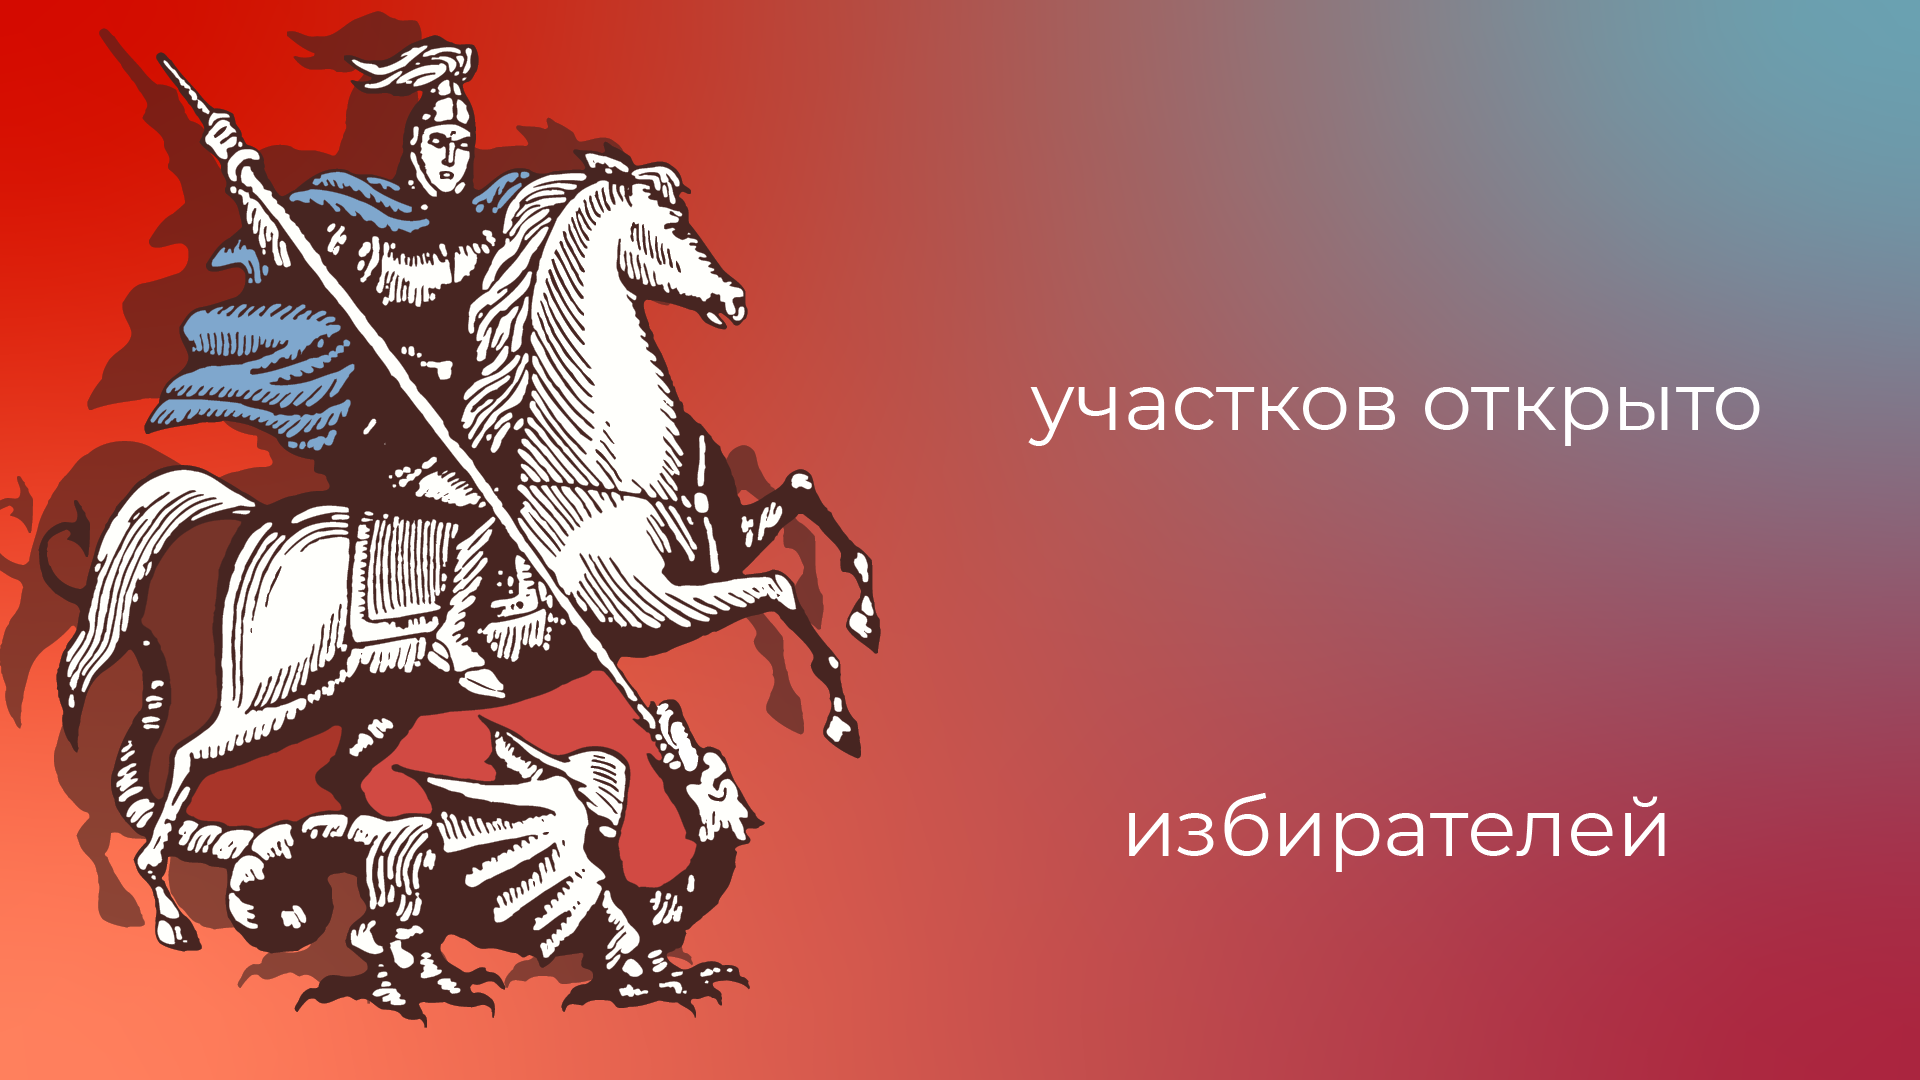
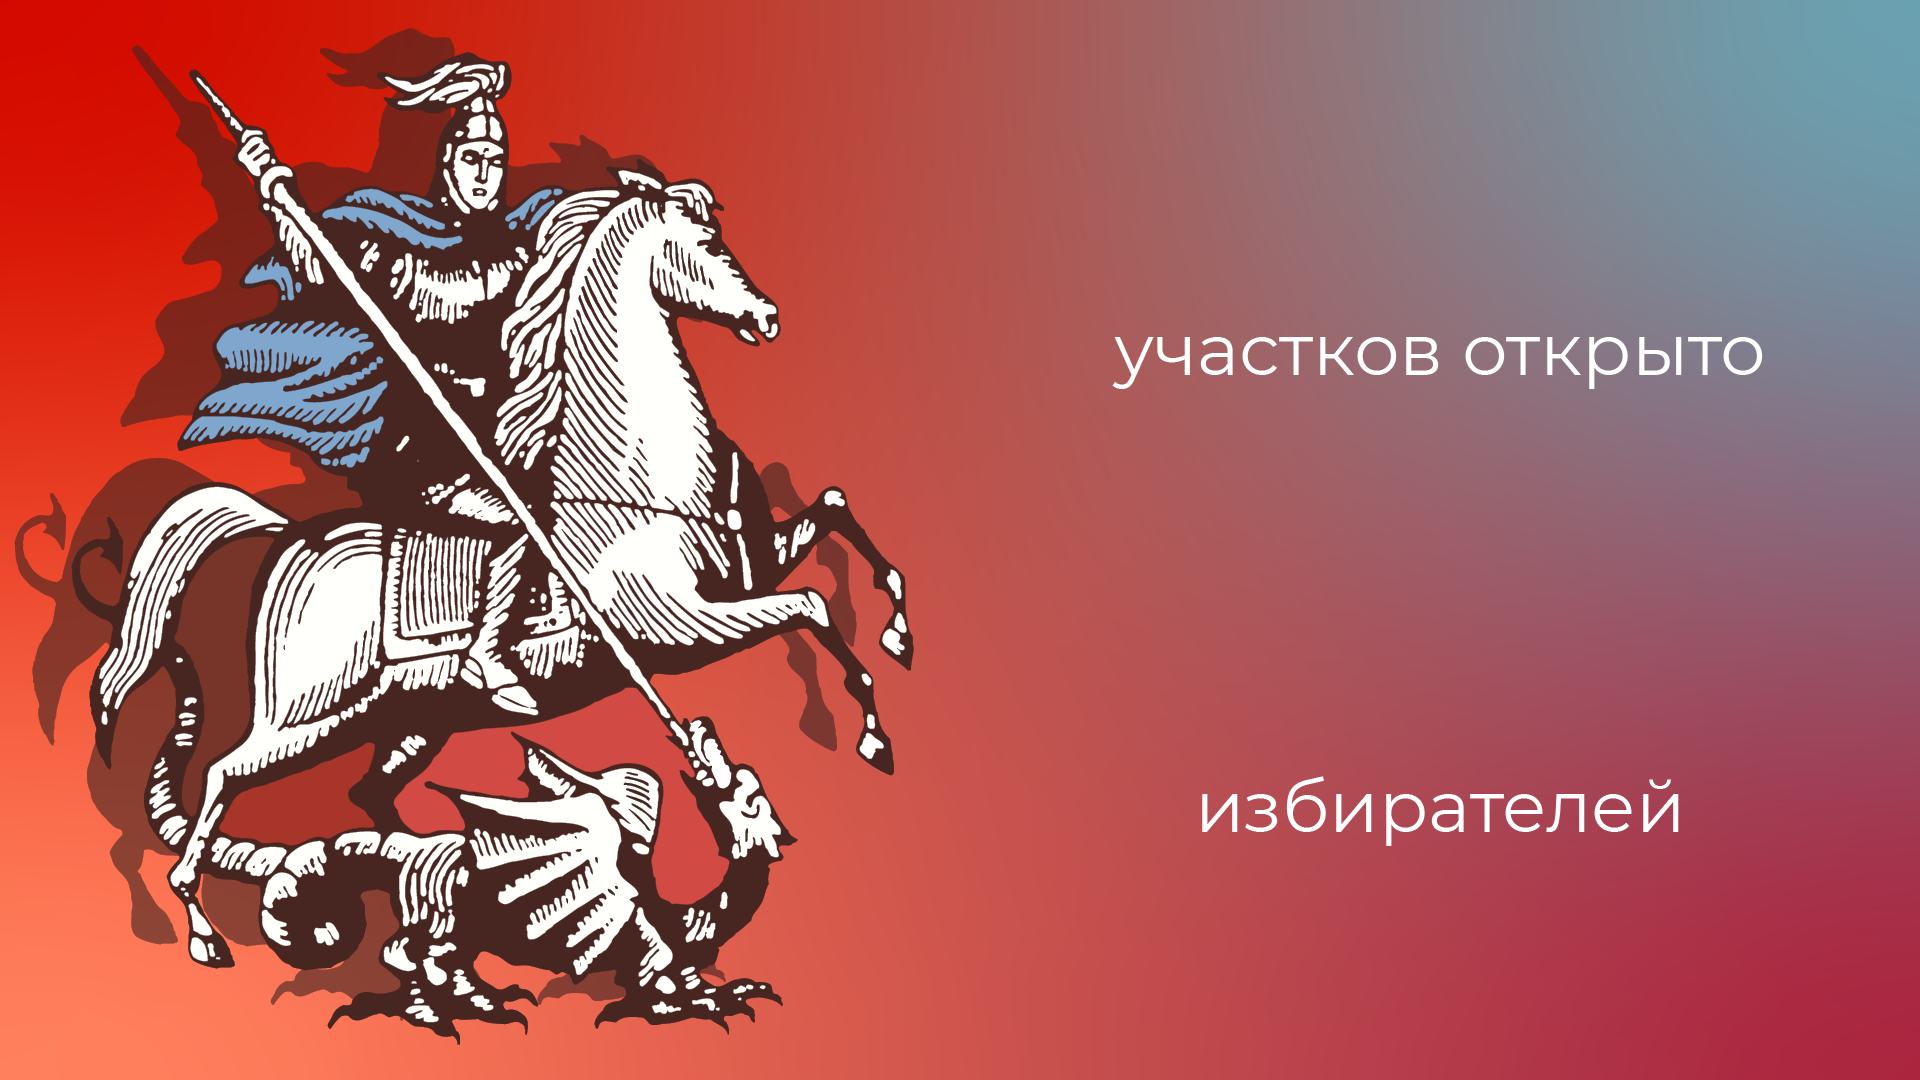
displays 0 1

Changed region(s): [[0.0, 0.0, 0.5, 0.9778], [0.5312, 0.3056, 0.9375, 0.3972], [0.5625, 0.7333, 0.875, 0.7944]]

diff --git a/frontend/src/components/journalistScreens/0_screen.vue b/frontend/src/components/journalistScreens/0_screen.vue
@@ -1,25 +1,6 @@
 <template>
-  <div>
-      <img :src="`${require('../../assets/logo_shadow.png')}`"
-             :style="{
-          'height': '100vh'
-        }"
-      >
-      <span :style="{
-            'width': '25%',
-            'position': 'fixed',
-            'color': '#FFFFFF',
-            'font-size': '146px',
-            'font-weight': 'bold',
-            'top': '25%',
-            'right': '15%'
-          }"
-        >
-        Выборы<br/>Мэра<br/>Москвы
-      </span>
-  </div>
-
-
+  <div class ="block">
+    </div>
 
 </template>
 
@@ -38,5 +19,13 @@ export default {
 </script>
 
 <style scoped>
+.block {
+
+    height: 100vh;
+    background-image:url("../../assets/journalistScreens/0.png");
+    display: flex;
+    align-items: center;
+    justify-content: center;
+}
 
 </style>

diff --git a/frontend/src/components/journalistScreens/1_opened.vue b/frontend/src/components/journalistScreens/1_opened.vue
@@ -6,12 +6,12 @@
 
         </div>
         <div class="col-6">
-          <div class="row row_block mb-5 display-1 text-white text-center font-weight-bold">
+          <div class="row row_block mb-5 pb-5 display-1 text-white text-center font-weight-bold">
             <div class="col-6">
               {{data.open_uik}}
             </div>
           </div>
-          <div class="row row_block display-1 text-white text-center font-weight-bold">
+          <div class="row row_block display-1 mt-1 text-white text-center font-weight-bold">
             <div class="col-6">
               {{data.population}}
             </div>
